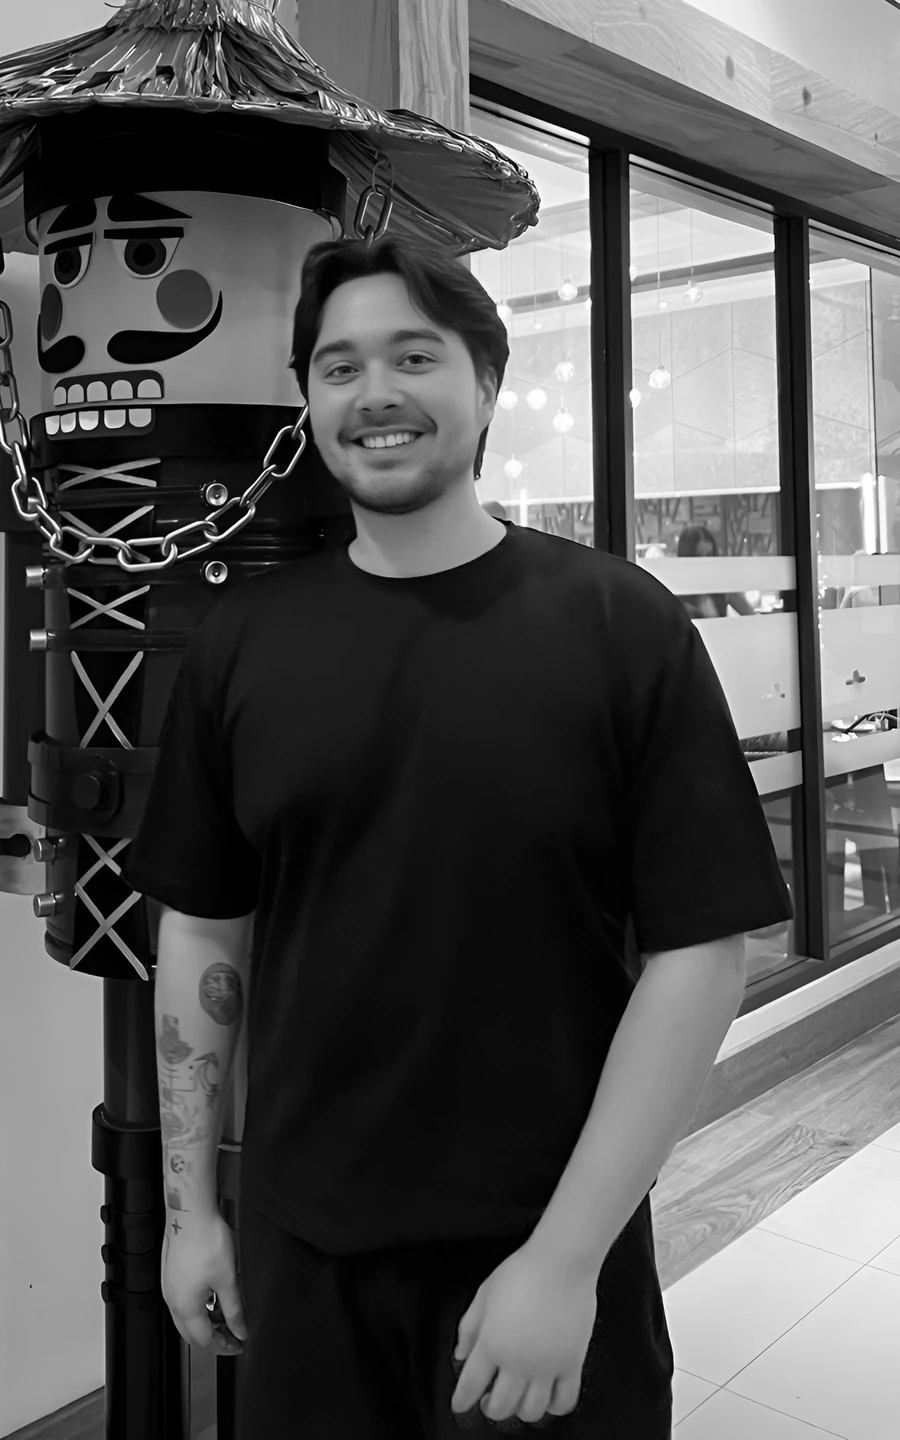
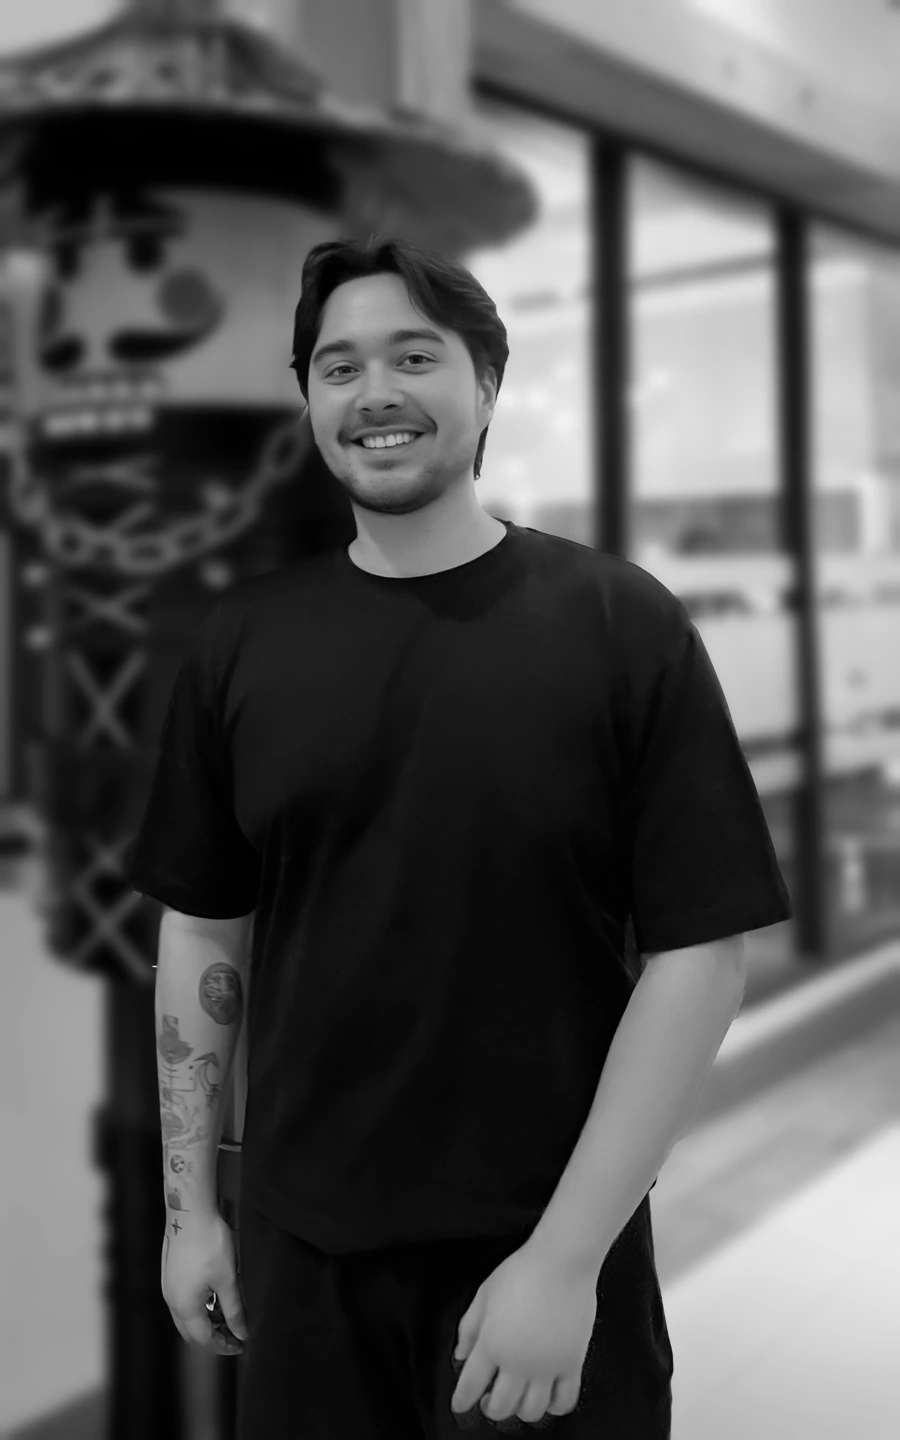
Portrait: slightly blur the background

diff --git a/css/home.css b/css/home.css
@@ -208,7 +208,7 @@
   border: var(--panel-border) solid var(--rule);
   background: radial-gradient(var(--tone) 1.1px, transparent 1.4px) 0 0 / 7px 7px, var(--paper-2);
 }
-/* The original photo, simply in black and white */
+/* The photo in black and white, with the background slightly blurred */
 .author .portrait img { width: 100%; height: 100%; object-fit: cover; object-position: 50% 0; }
 .author-bubble {
   position: absolute; right: -1.5rem; bottom: -1.2rem; max-width: 15rem; padding: 0.8rem 1.1rem;
